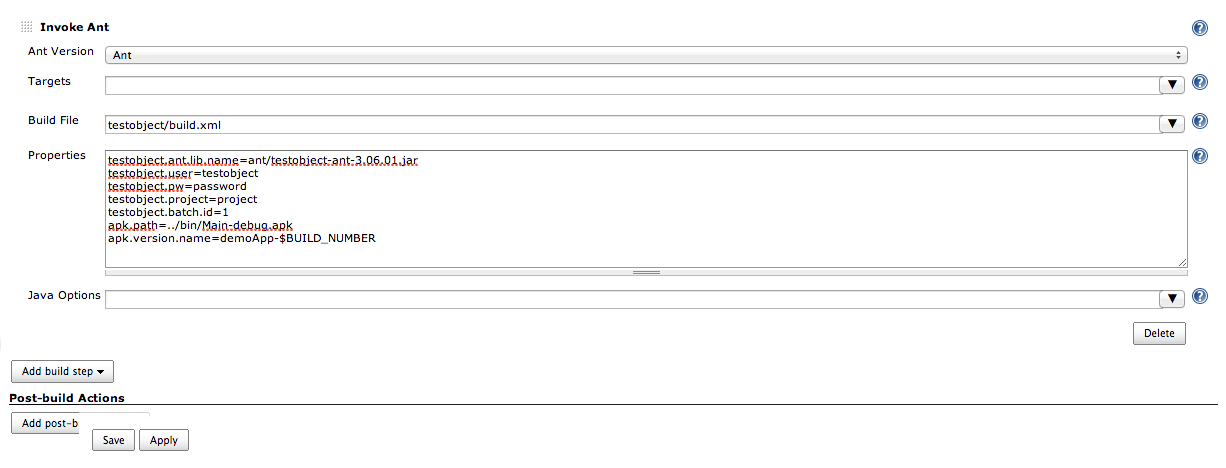
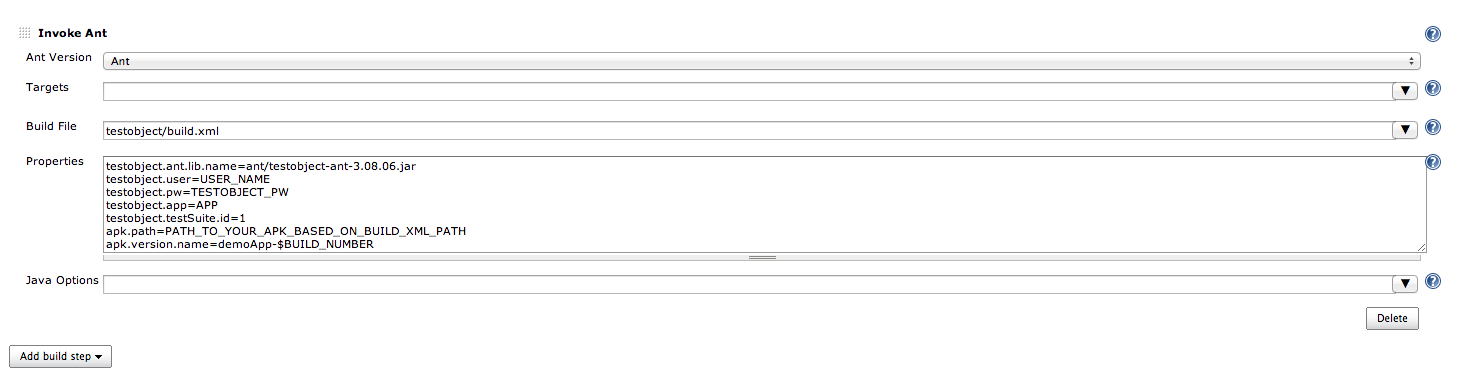
changes for new ant plugin

Changed region(s): [[0.0, 0.0294, 0.9918, 1.0], [0.9608, 0.4118, 0.9918, 0.4706]]

diff --git a/docs/guides/ant-task.md b/docs/guides/ant-task.md
@@ -14,7 +14,7 @@ What you need:
 
 <h3 id="AutomateyourTestExecutionusingAnt-Step1%3ADownloadandinstallTestObjectCONTINUOUSAntTasks">Step 1: Download and Install TestObject Ant Tasks</h3>
 
-+ Download TestObject Ant Tasks: <a href="/attachments/guide/ant-task/testobject-ant-3.06.01.jar">testobject-ant-3.06.01.jar</a>
++ Download TestObject Ant Tasks: <a href="/attachments/guide/ant-task/testobject-ant-3.08.06.jar">testobject-ant-3.08.06.jar</a>
 + Copy the jar file into <em>ant_installation_folder/lib</em>
 
 
@@ -27,11 +27,11 @@ Authenticate yourself against TestObject (dependency for all other tasks)
 + <strong>UploadVersion</strong><br>
 Upload a new .apk file and create a new version for it
 + <strong>ActivateVersion</strong><br>
-Set an already uploaded version as default version for the given projects
-+ <strong>StartBatch</strong><br>
-Execute a preconfigured batch
-+ <strong>GetBatchReport</strong><br>
-Download the results for a given batch execution
+Set an already uploaded version as default version for the given app
++ <strong>StartSuite</strong><br>
+Execute a preconfigured suite
++ <strong>GetSuiteReport</strong><br>
+Download the results for a given suite execution
 
 
 To load the TesObject CONTINUOUS Ant tasks, first include the following snippet into your build.xml:
@@ -44,7 +44,7 @@ To load the TesObject CONTINUOUS Ant tasks, first include the following snippet 
 
 <taskdef resource="org/testobject/extras/ant/tasks.properties">
    	<classpath>
-       	<pathelement location="testobject-ant-3.06.01.jar"/>
+       	<pathelement location="testobject-ant-3.08.06.jar"/>
    	</classpath>
 </taskdef>
 
@@ -75,18 +75,20 @@ After including the snippet call the predefined tasks:
 
 <h4>Sample Ant Script</h4>
 
-A full fledged version of your build.xml may look like the following file. It uploads and activates a new .apk file and starts a batch. When the results are available it distributes them to different properties.
+A full fledged version of your build.xml may look like the following file. It uploads and activates a new .apk file and starts a suite. When the results are available it distributes them to different properties.
 
 {% highlight xml %}
 <?xml version="1.0"?>
-<project name="TestObjectSampleScript" default="downloadBatchReport" basedir=".">
+<project name="TestObjectSampleScript" default="downloadSuiteReport" basedir=".">
  
-    <!-- properties used by all tasks to identify the correct project -->
+    <!-- properties used by all tasks to identify the correct app -->
 	<property name="testobject.ant.lib.name" value="testobject-ant-3.06.01.jar" />
     <property name="testobject.user" value="USERNAME" />
     <property name="testobject.pw" value="PASSWORD" />
-    <property name="testobject.project" value="PROJECTNAME" />
-	<property name="testobject.batch.id" value="1" /> 
+    <property name="testobject.app" value="APPNAME" />
+	<property name="testobject.testSuite.id" value="1" /> 
+	<property name="apk.path" value="PATH_TO_YOUR_APK" />
+	
  
     <!-- load the testobject ant tasks -->
     <taskdef resource="org/testobject/extras/ant/tasks.properties">
@@ -109,25 +111,30 @@ A full fledged version of your build.xml may look like the following file. It up
     <target name="activateVersion" depends="uploadVersion">
         <activateVersion versionId="${new.version}" />
     </target>
+
+        <!-- set the new version as default -->
+    <target name="runCheckup" depends="activateVersion">
+        <runCheckup />
+    </target>
  
-    <!-- start the batch with id 1 and store the batch report id in 'new.batch' -->
-    <target name="startBatch" depends="activateVersion">
-        <startBatch batchId="${testobject.batch.id}" response="new.batch"/>
-        <echo message="https://app.testobject.com/#/${testobject.user}/${testobject.project}/reports/${new.batch}"></echo>
+    <!-- start the test suite with id 1 and store the suite report id in 'new.testSuite' -->
+    <target name="startTestSuite" depends="activateVersion">
+        <startTestSuite testSuiteId="${testobject.testSuite.id}" response="new.testSuite"/>
+        <echo message="https://app.testobject.com/#/${testobject.user}/${testobject.app}/reports/${new.testSuite}"></echo>
     </target>
      
-    <!-- download the report of the created batch and store the result -->
-    <target name="downloadBatchReport" depends="startBatch">
-        <getBatchReport batchReportId="${new.batch}" status="batch.status" errors="batch.errors" tests="batch.tests"/>
-        <condition property="batch.succeeded">
-                <equals arg1="${batch.status}" arg2="SUCCESS" />
+    <!-- download the report of the created test suite and store the result -->
+    <target name="downloadSuiteReport" depends="startTestSuite">
+        <getSuiteReport suiteReportId="${new.testSuite}" status="testSuite.status" errors="testSuite.errors" tests="testSuite.tests"/>
+        <condition property="testSuite.succeeded">
+                <equals arg1="${testSuite.status}" arg2="SUCCESS" />
         </condition>
         <antcall target="fail" />
     </target> 
  
-    <target name="fail" unless="batch.succeeded">
-        <fail message="Batch Replay failed with ${batch.errors} errors" />
-		<echo message="https://app.testobject.com/#/${testobject.user}/${testobject.project}/reports/${new.batch}"></echo>
+    <target name="fail" unless="testSuite.succeeded">
+        <fail message="Test Suite Replay failed with ${testSuite.errors} errors" />
+		<echo message="https://app.testobject.com/#/${testobject.user}/${testobject.app}/reports/${new.testSuite}"></echo>
     </target>
 </project>
 {% endhighlight %}

diff --git a/docs/guides/jenkins_ant.md b/docs/guides/jenkins_ant.md
@@ -15,7 +15,7 @@ What you need:
 
 <h3 id="step1">Step 1: Add the Ant Build File and Ant Plugin to your repository</h3>
 
-+ Download TestObject Ant Tasks: <a href="/attachments/guide/ant-task/testobject-ant-3.06.01.jar" target="_blank">testobject-ant-3.06.01.jar</a>
++ Download TestObject Ant Tasks: <a href="/attachments/guide/ant-task/testobject-ant-3.08.06.jar" target="_blank">testobject-ant-3.08.06.jar</a>
 + Download the TestObject: <a href="https://raw2.github.com/testobject/calculator/master/testobject/build.xml" target="_blank">build.xml</a>
 
 <h3 id="step2">Step 2: Add the files to your app repository</h3>
@@ -23,7 +23,7 @@ What you need:
 + Add the two files into <strong>your app</strong> repository. For example:
 {% highlight xml %}
 /testobject/build.xml
-/testobject/ant/testobject-ant-3.06.01.jar
+/testobject/ant/testobject-ant-3.08.06.jar
 {% endhighlight %}
 
 <h3 id="step3">Step 3: Configure your Jenkins Project</h3>
@@ -42,11 +42,11 @@ testobject/build.xml
 + <strong>Properties</strong>
 Copy the following code to the Properties field and replace the variables with your username, password, project, batch id and APK path.
 {% highlight xml %}
-testobject.ant.lib.name=ant/testobject-ant-3.06.01.jar
+testobject.ant.lib.name=ant/testobject-ant-3.08.06.jar
 testobject.user=USER_NAME
 testobject.pw=TESTOBJECT_PW
-testobject.project=PROJECT
-testobject.batch.id=1
+testobject.app=APP
+testobject.testSuite.id=1
 apk.path=PATH_TO_YOUR_APK_BASED_ON_BUILD_XML_PATH
 apk.version.name=demoApp-$BUILD_NUMBER
 {% endhighlight %}
